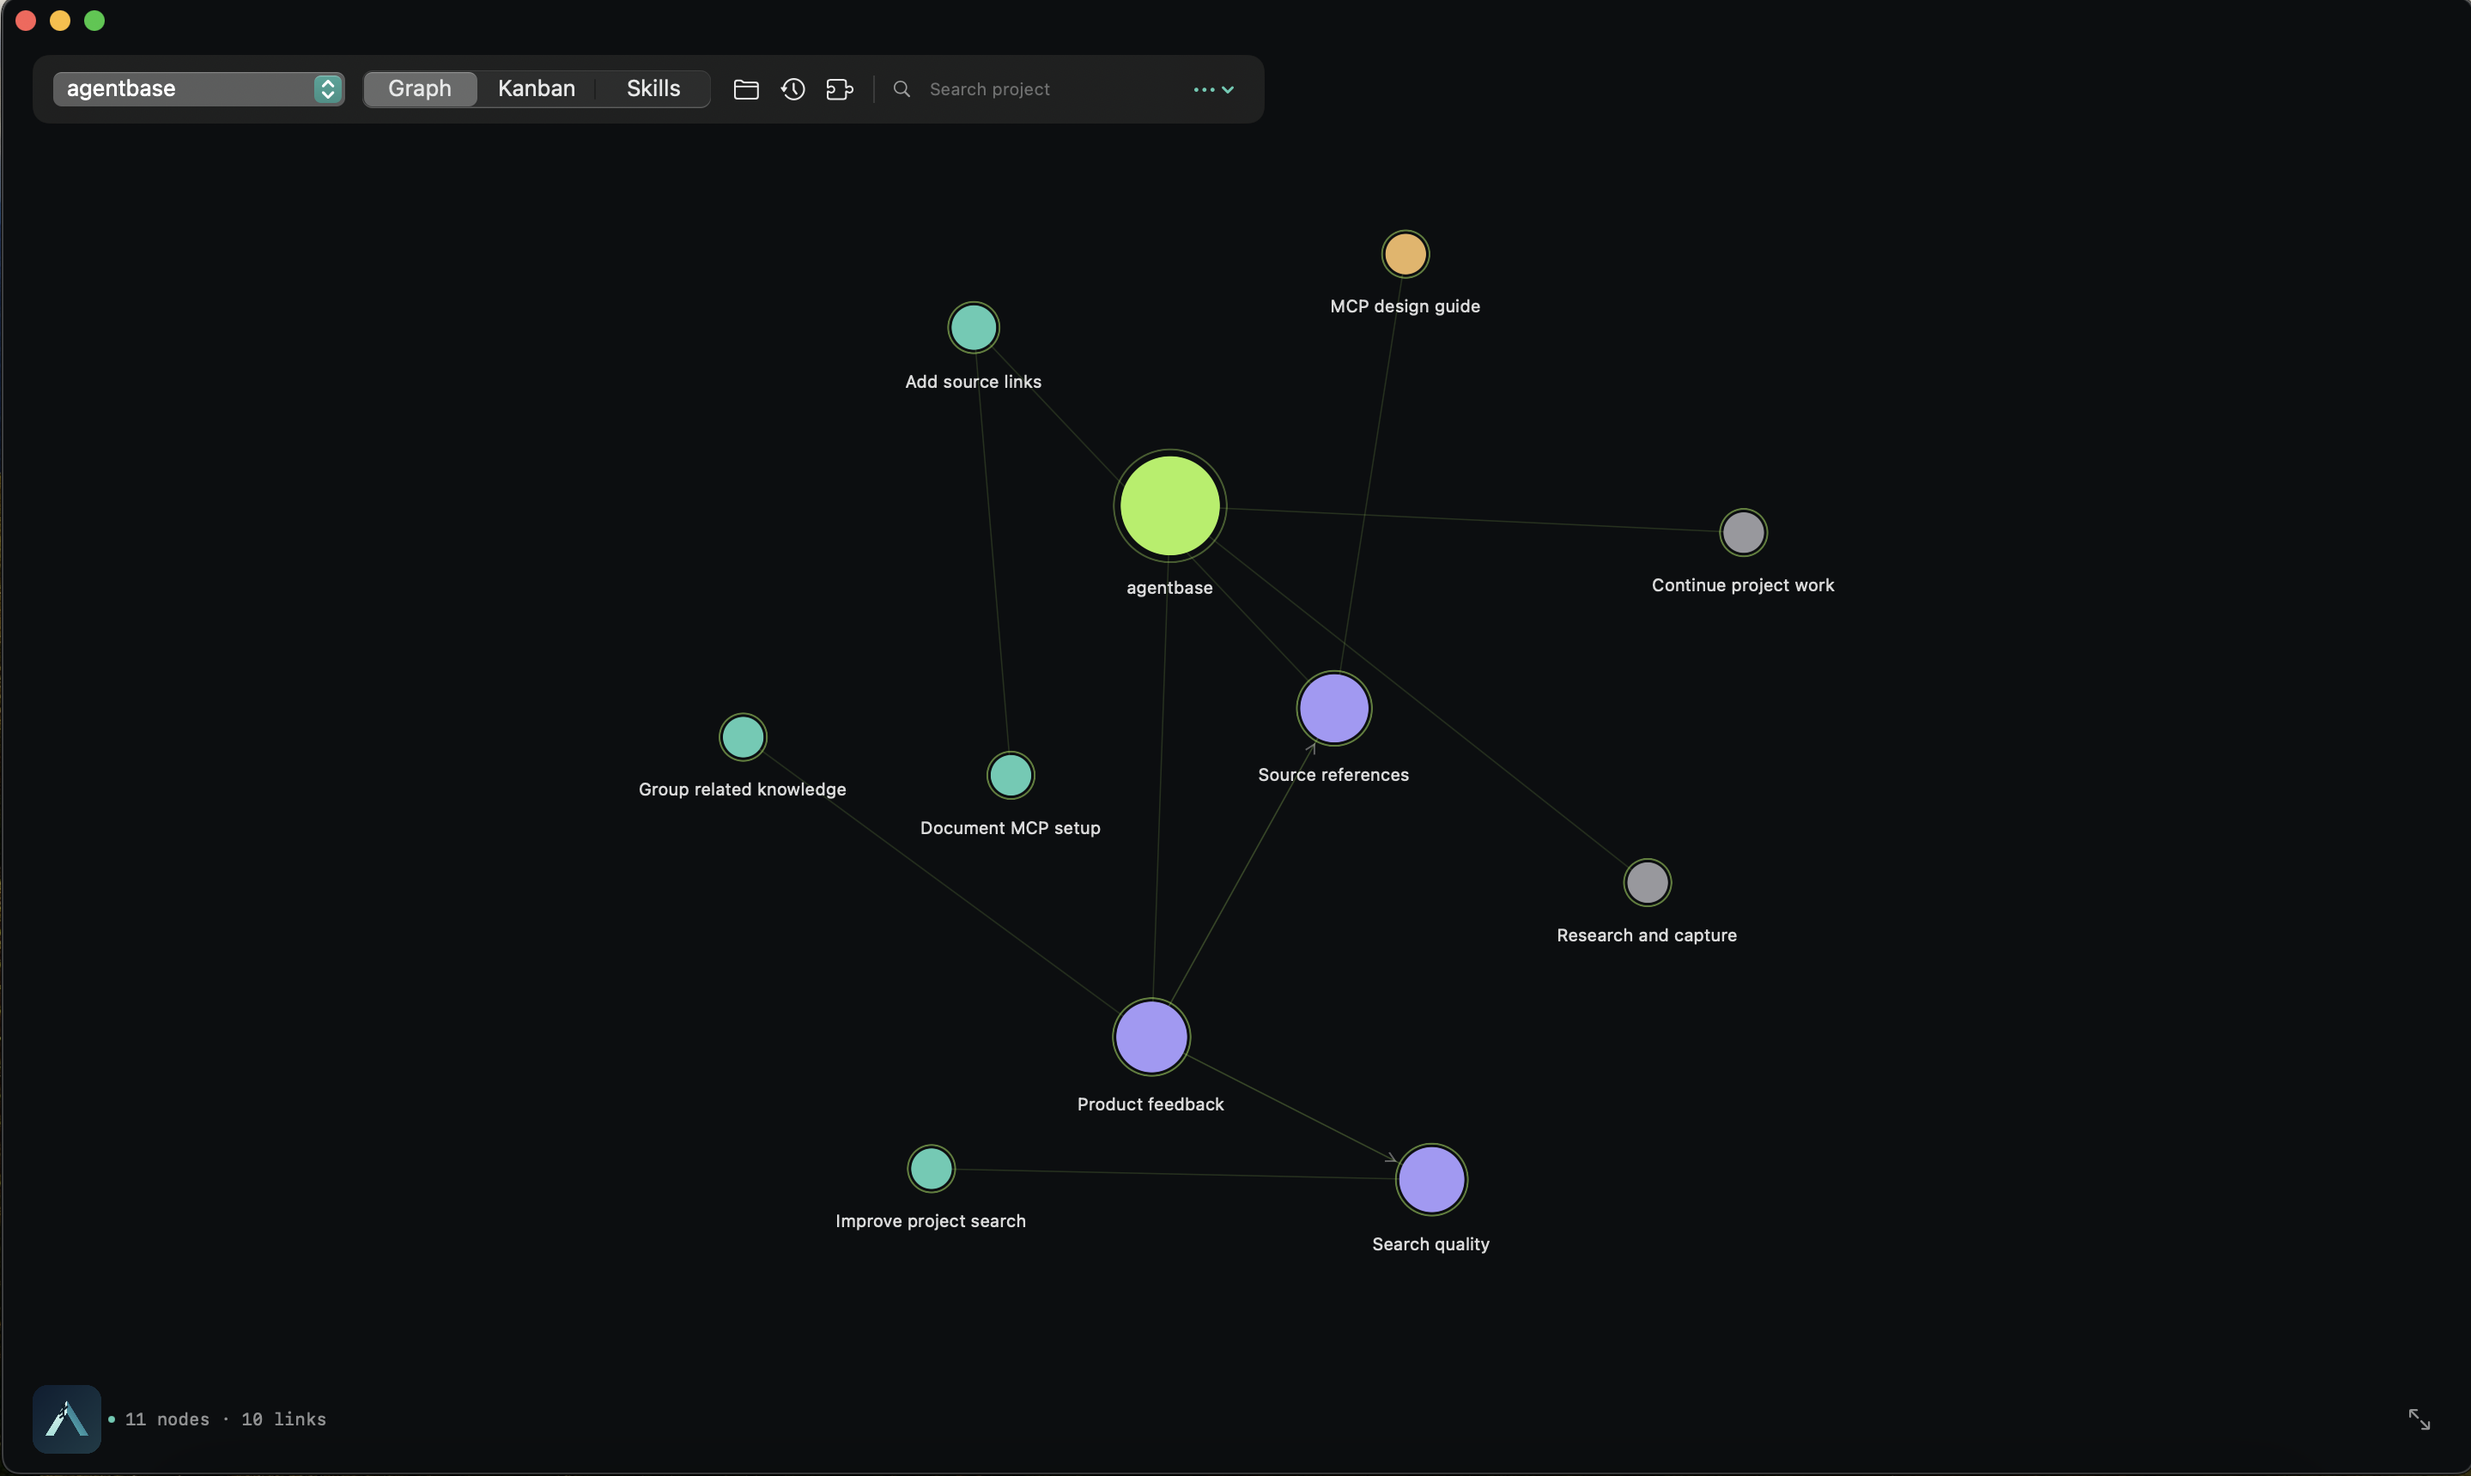
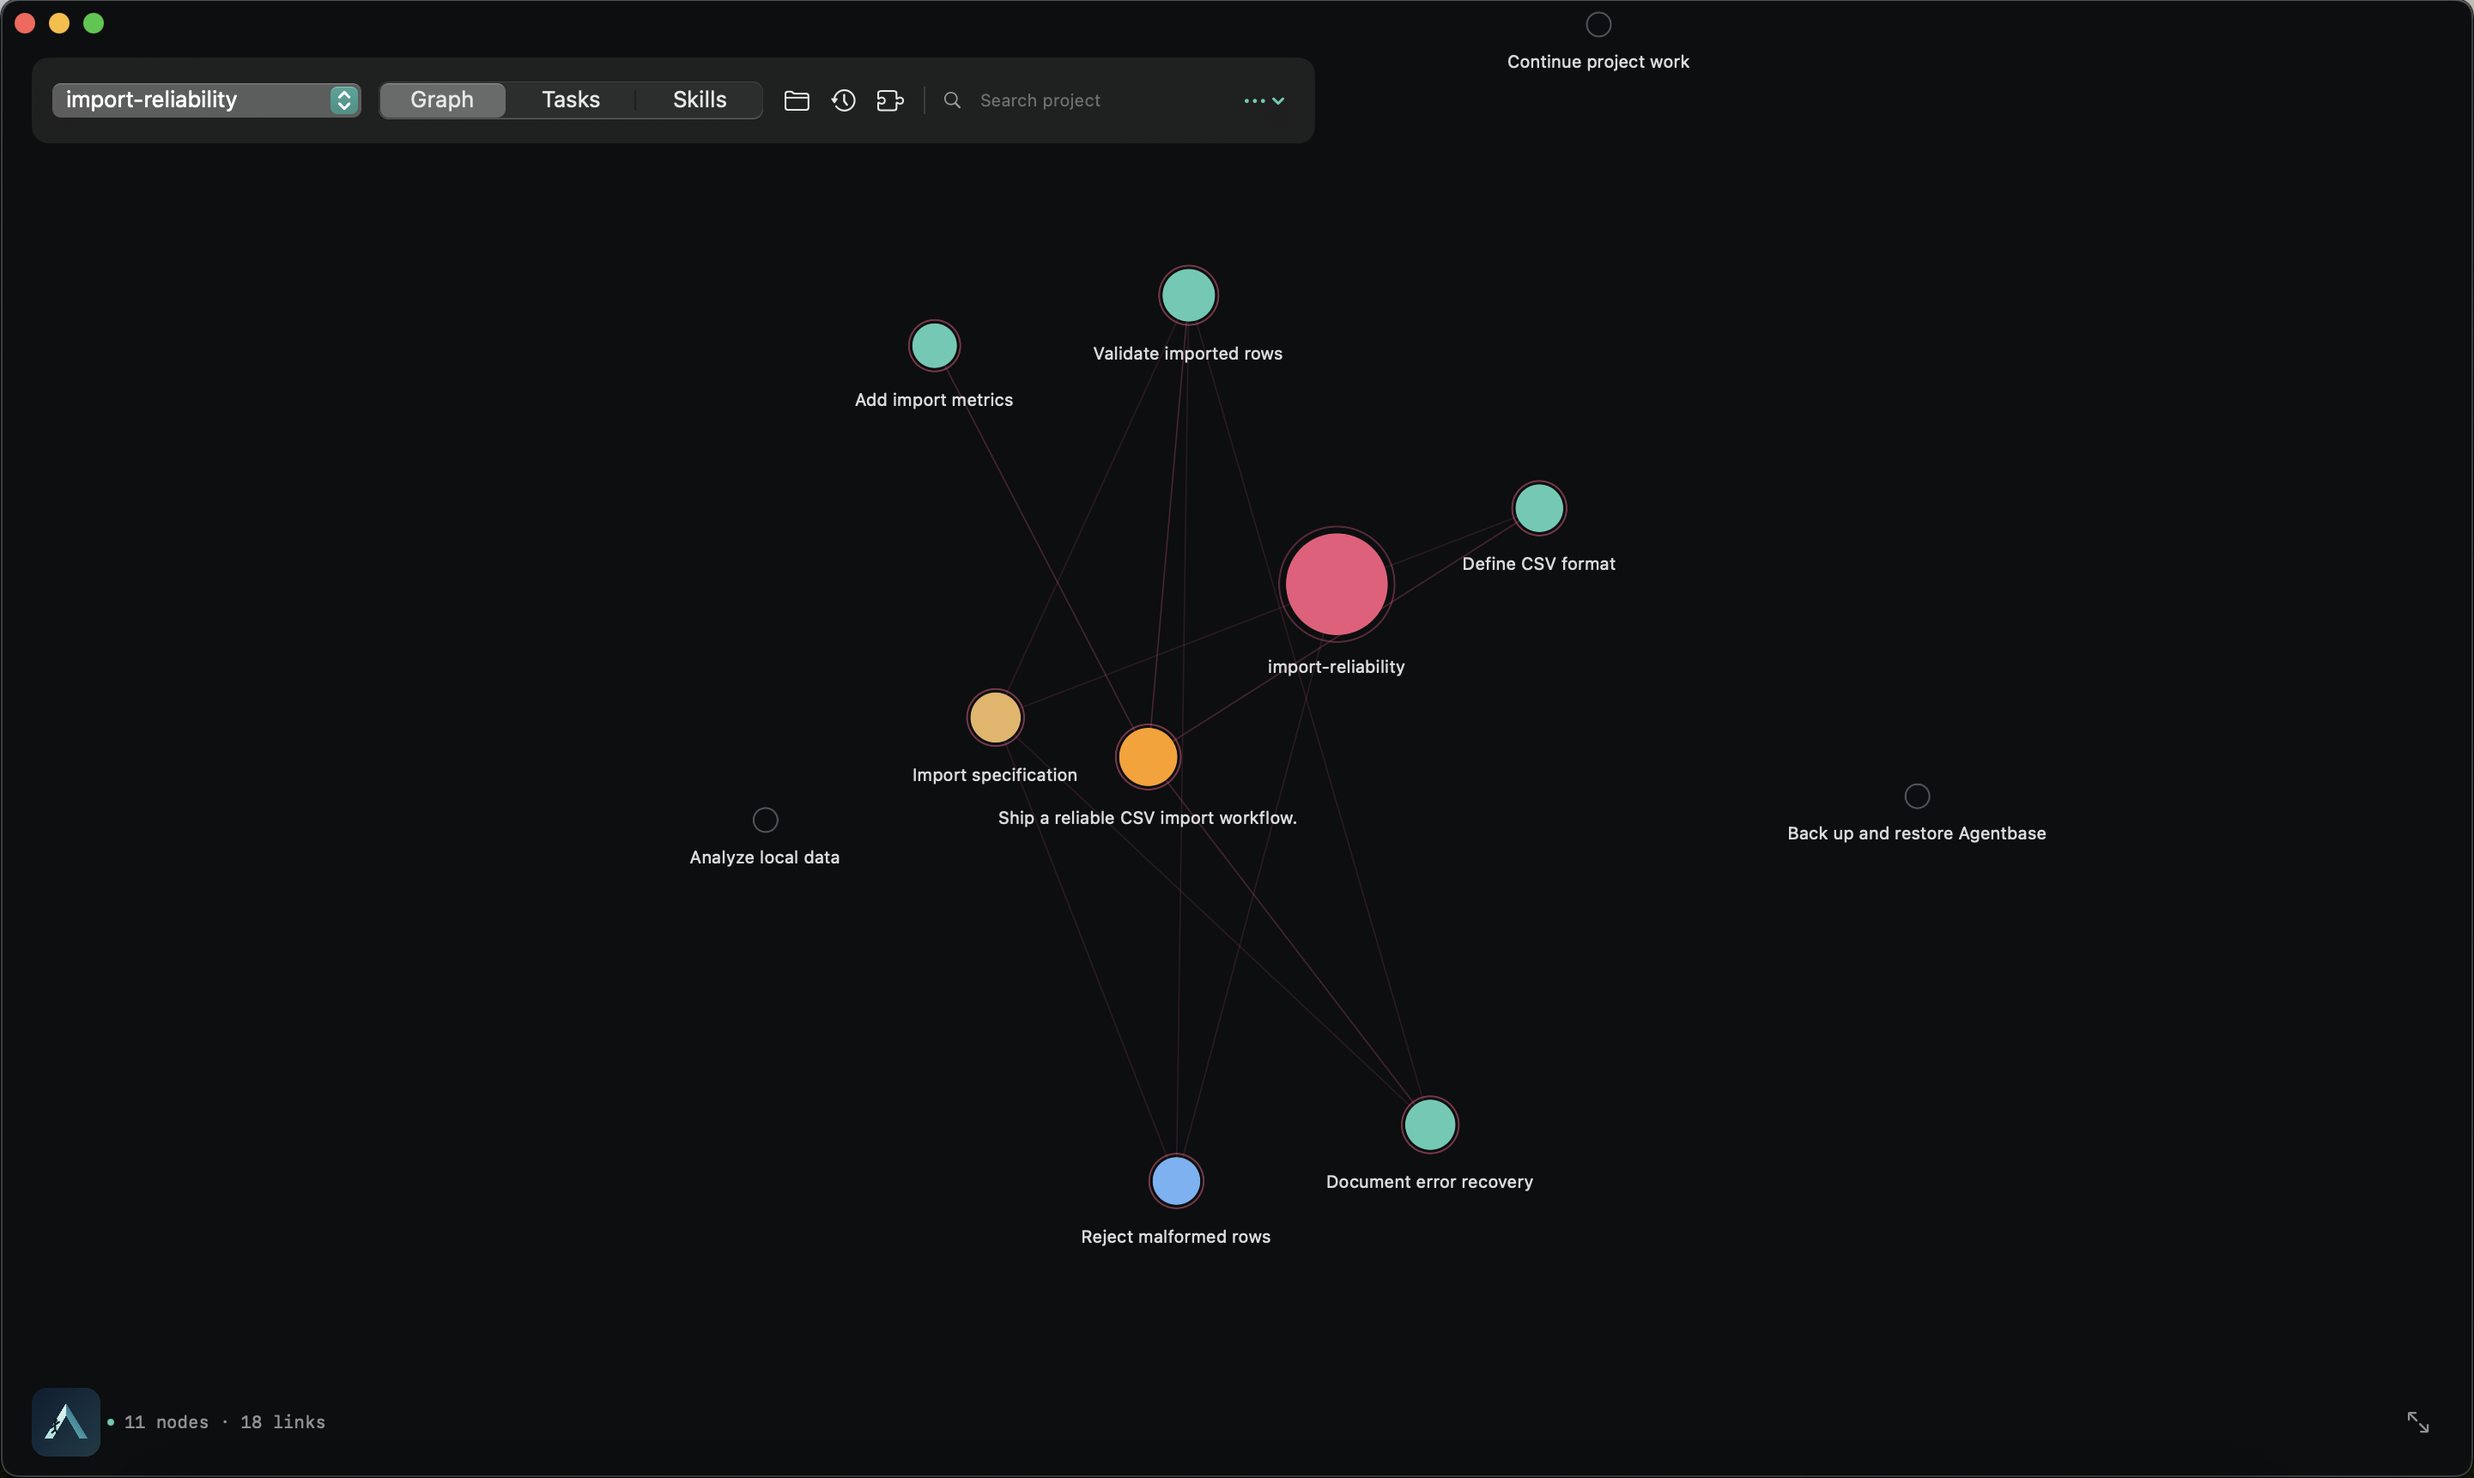
Make README showcase static and authentic

diff --git a/scripts/build-readme-gif.py b/scripts/build-readme-gif.py
@@ -1,0 +1,56 @@
+#!/usr/bin/env python3
+"""Build the README GIF from unaltered live inspector captures.
+
+Requires Pillow. Capture graph.png and kanban.png from the same demo project
+before rebuilding the GIF. No product UI or MCP response is recreated here.
+"""
+
+from pathlib import Path
+from PIL import Image, ImageDraw, ImageFont
+
+ROOT = Path(__file__).resolve().parent.parent
+OUTPUT = ROOT / "docs/screenshots/showcase.gif"
+SIZE = (1200, 717)
+FONT_DIR = Path("/System/Library/Fonts/Supplemental")
+REGULAR = ImageFont.truetype(str(FONT_DIR / "Arial.ttf"), 25)
+BOLD = FONT_DIR / "Arial Bold.ttf"
+
+
+def cover():
+    frame = Image.new("RGB", SIZE, "#0b1015")
+    draw = ImageDraw.Draw(frame)
+    logo = Image.open(ROOT / "assets/logo.png").convert("RGBA")
+    logo = logo.resize((92, 92), Image.Resampling.LANCZOS)
+    frame.paste(logo, (72, 65), logo)
+    draw.text((190, 78), "AgentBase", font=ImageFont.truetype(str(BOLD), 58),
+              fill="#f1f5f5")
+    draw.rounded_rectangle((72, 238, 145, 243), radius=2, fill="#72d0c2")
+    title = ImageFont.truetype(str(BOLD), 61)
+    draw.text((72, 275), "Project state for", font=title, fill="#f1f5f5")
+    draw.text((72, 350), "coding agents.", font=title, fill="#f1f5f5")
+    draw.text((74, 472), "Tasks, decisions, sources and handoffs through local MCP.",
+              font=REGULAR, fill="#aebec2")
+    draw.text((74, 596), "CODEX  /  CLAUDE CODE",
+              font=ImageFont.truetype(str(BOLD), 17), fill="#73cbbf")
+    draw.text((1128, 596), "OPEN SOURCE  ·  APACHE 2.0",
+              font=ImageFont.truetype(str(BOLD), 17), fill="#73cbbf",
+              anchor="ra")
+    return frame
+
+
+graph = Image.open(ROOT / "docs/screenshots/graph.png").convert("RGB")
+tasks = Image.open(ROOT / "docs/screenshots/kanban.png").convert("RGB")
+frames = [
+    cover(),
+    graph.resize(SIZE, Image.Resampling.LANCZOS),
+    tasks.resize(SIZE, Image.Resampling.LANCZOS),
+]
+durations = [1400, 2800, 2800]
+palette_frames = [
+    frame.quantize(colors=96, method=Image.Quantize.MEDIANCUT,
+                   dither=Image.Dither.NONE) for frame in frames
+]
+palette_frames[0].save(OUTPUT, save_all=True,
+                       append_images=palette_frames[1:],
+                       duration=durations, loop=0, optimize=True, disposal=2)
+print(f"Wrote {OUTPUT} ({OUTPUT.stat().st_size // 1024} KiB)")

diff --git a/README.md b/README.md
@@ -1,14 +1,14 @@
 # AgentBase
 
-**Local-first storage and memory for AI agents.** Keep project knowledge, tasks, data, and analysis together so work can pick up again in a fresh session.
+**Open-source project state for coding agents.**
 
-AgentBase is an MCP server, Codex plugin, and macOS inspector for persistent project state. Its local SQLite store keeps knowledge and work history; DuckDB powers sandboxed SQL analysis over imported project data. Claude Code can connect through MCP.
+AgentBase stores tasks, decisions, sources, and handoffs in a local project database. Codex and Claude Code retrieve project context through MCP; the macOS app lets you inspect the graph and task board.
 
-## App preview
+## See it in action
 
-![AgentBase inspector switching between its project graph and All-tasks board](docs/screenshots/showcase.gif)
+![AgentBase title card followed by live Graph and Tasks views of the same import-reliability demo project](docs/screenshots/showcase.gif)
 
-[Graph screenshot](docs/screenshots/graph.png) · [All-tasks screenshot](docs/screenshots/kanban.png)
+[Graph](docs/screenshots/graph.png) · [Tasks](docs/screenshots/kanban.png)
 
 ## What it does
 
